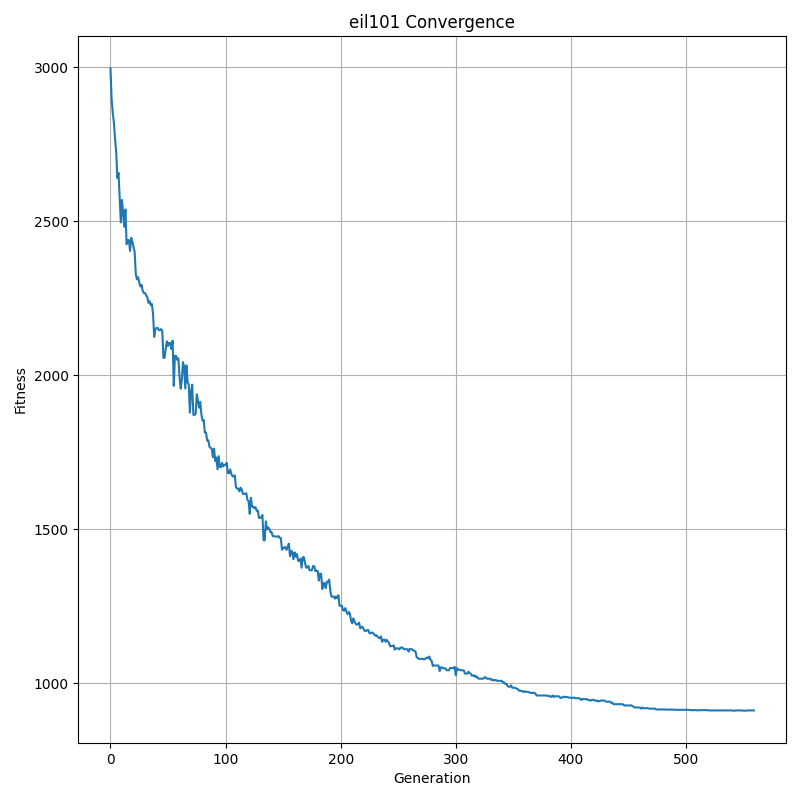
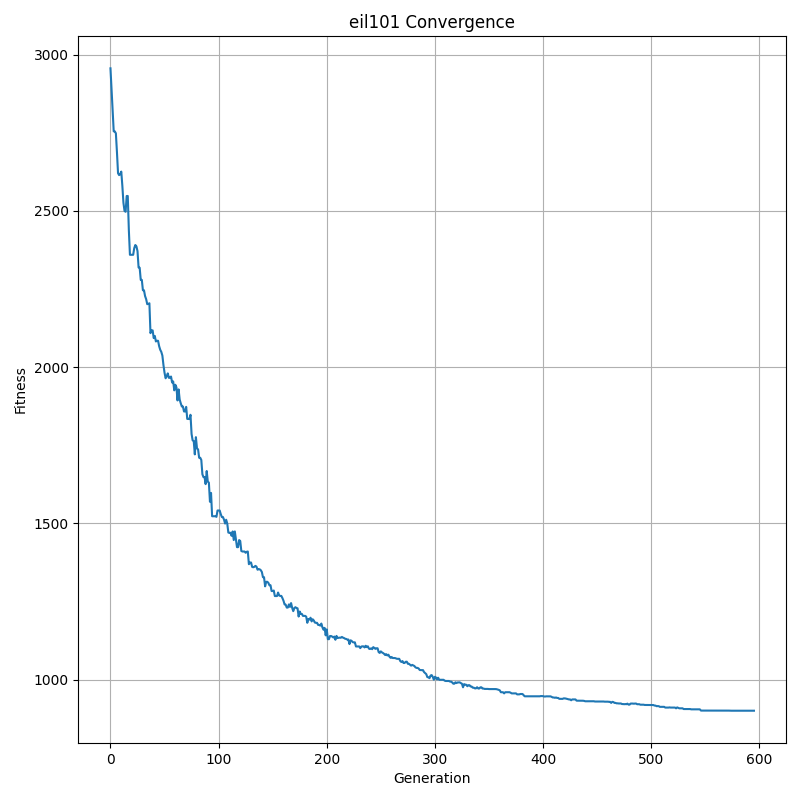
experiment 4: 12, 2103, 8584, 900, 2046

diff --git a/src/driver.py b/src/driver.py
@@ -47,13 +47,13 @@ def main():
         problem_name,                   
         travel_graph_class=TravelGraphClassic,
         population_size=1000,           # 1000
-        generations=500,               # 500
-        elitism_factor=0.2,             # 0.15
+        generations=1000,               # 500
+        elitism_factor=0.15,             # 0.15
         elitism_factor_change=None,       # None
-        diversity_factor=0.3,           # 0.15
-        diversity_factor_change=-0.07/100,   # None
-        crossover_factor=0.2,           # 0.1
-        crossover_factor_change=-0.07/100, # None
+        diversity_factor=0.15,           # 0.15
+        diversity_factor_change=None,   # None
+        crossover_factor=0.1,           # 0.1
+        crossover_factor_change=-0.009/100, # None
         p_mutation=0.01,                # 0.01
         p_mutation_change=None,         # None
         mutate_elite=True,              # True
